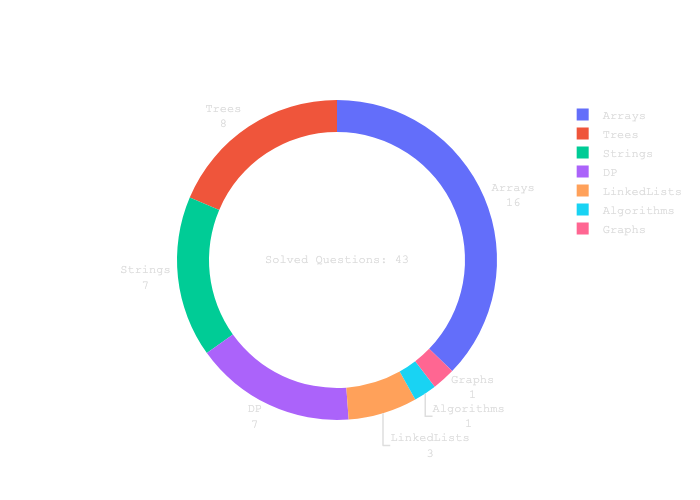
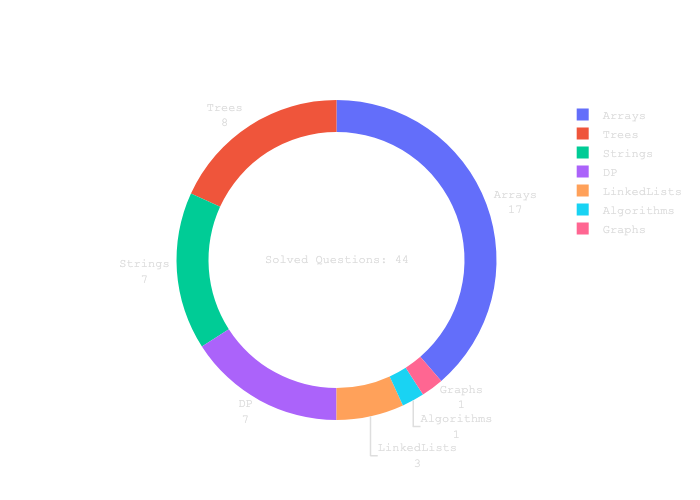
find peak element

diff --git a/Arrays/findPeakElement.py b/Arrays/findPeakElement.py
@@ -1,0 +1,33 @@
+from typing import List
+
+
+def findPeak(nums: List[int]) -> int:
+    if len(nums) == 0:
+        return 0
+    l, r = 0, len(nums) - 1
+    while l <= r:
+        mid = l + (r - l) // 2
+        # print(mid)
+        if mid == 0:
+            if nums[mid] > nums[mid + 1]:
+                return mid
+            else:
+                return mid + 1
+        if mid == len(nums) - 1:
+            if nums[mid] > nums[mid - 1]:
+                return mid
+            else:
+                return mid - 1
+        if nums[mid - 1] < nums[mid] > nums[mid + 1]:
+            return mid
+        if nums[mid] < nums[mid + 1]:
+            l = mid + 1
+        else:
+            r = mid - 1
+    return -1
+
+
+print(findPeak([1, 2, 3, 1]))
+print(findPeak([1, 2, 1, 3, 5, 6, 4]))
+print(findPeak([0, 1]))
+print(findPeak([3, 1, 2]))
